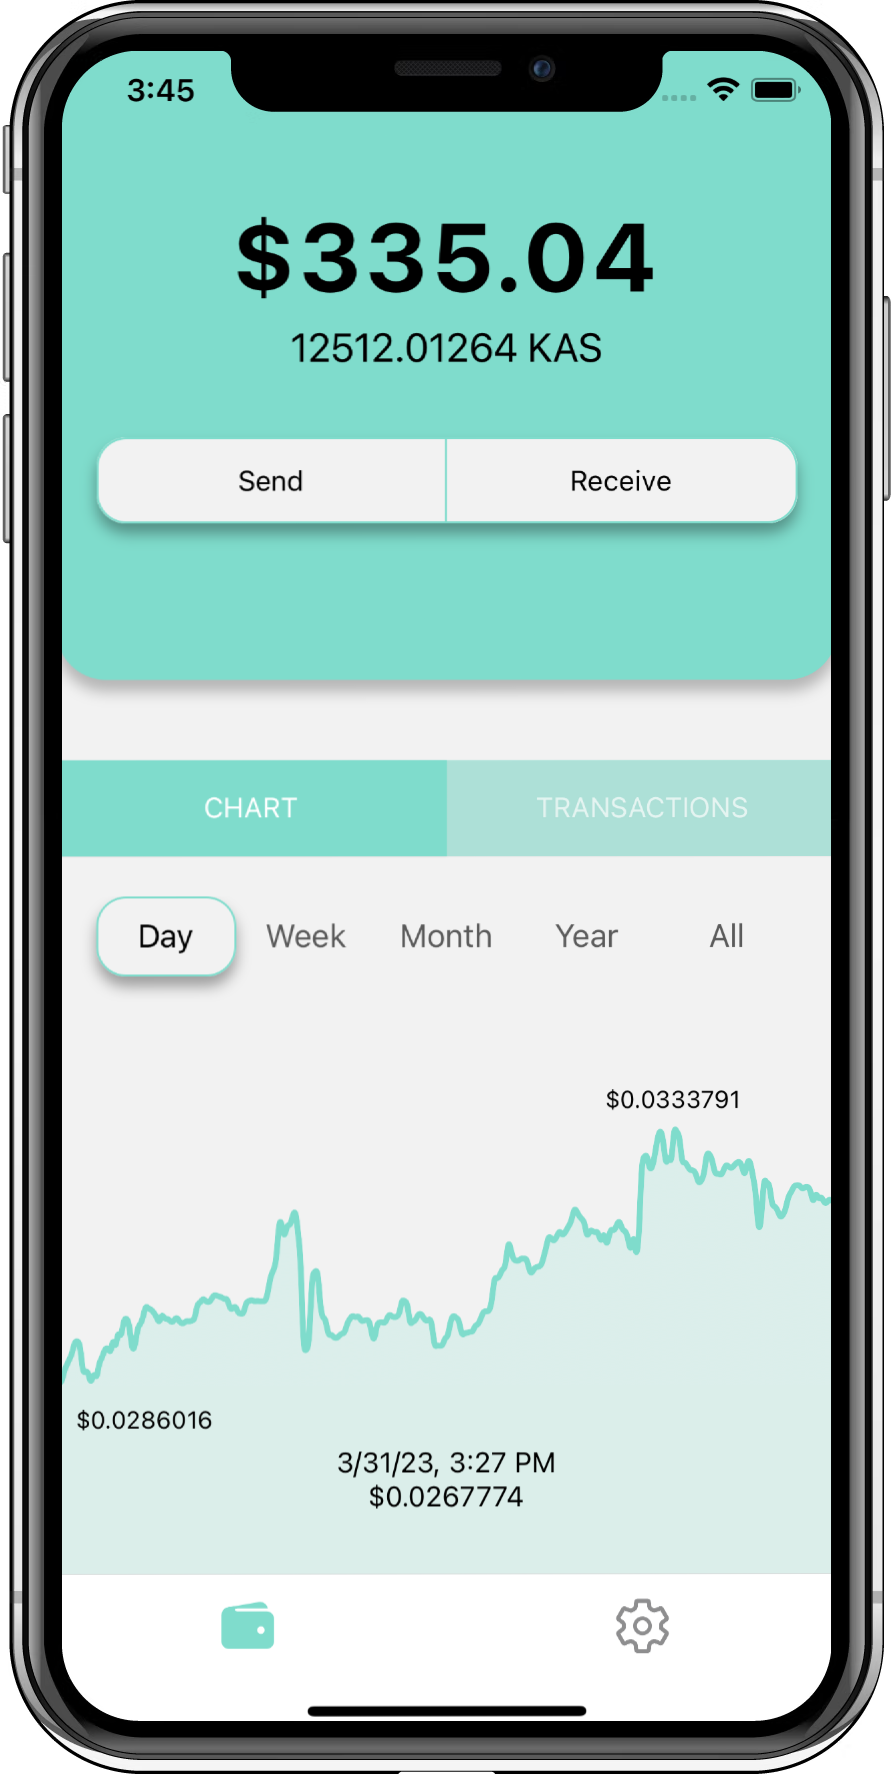
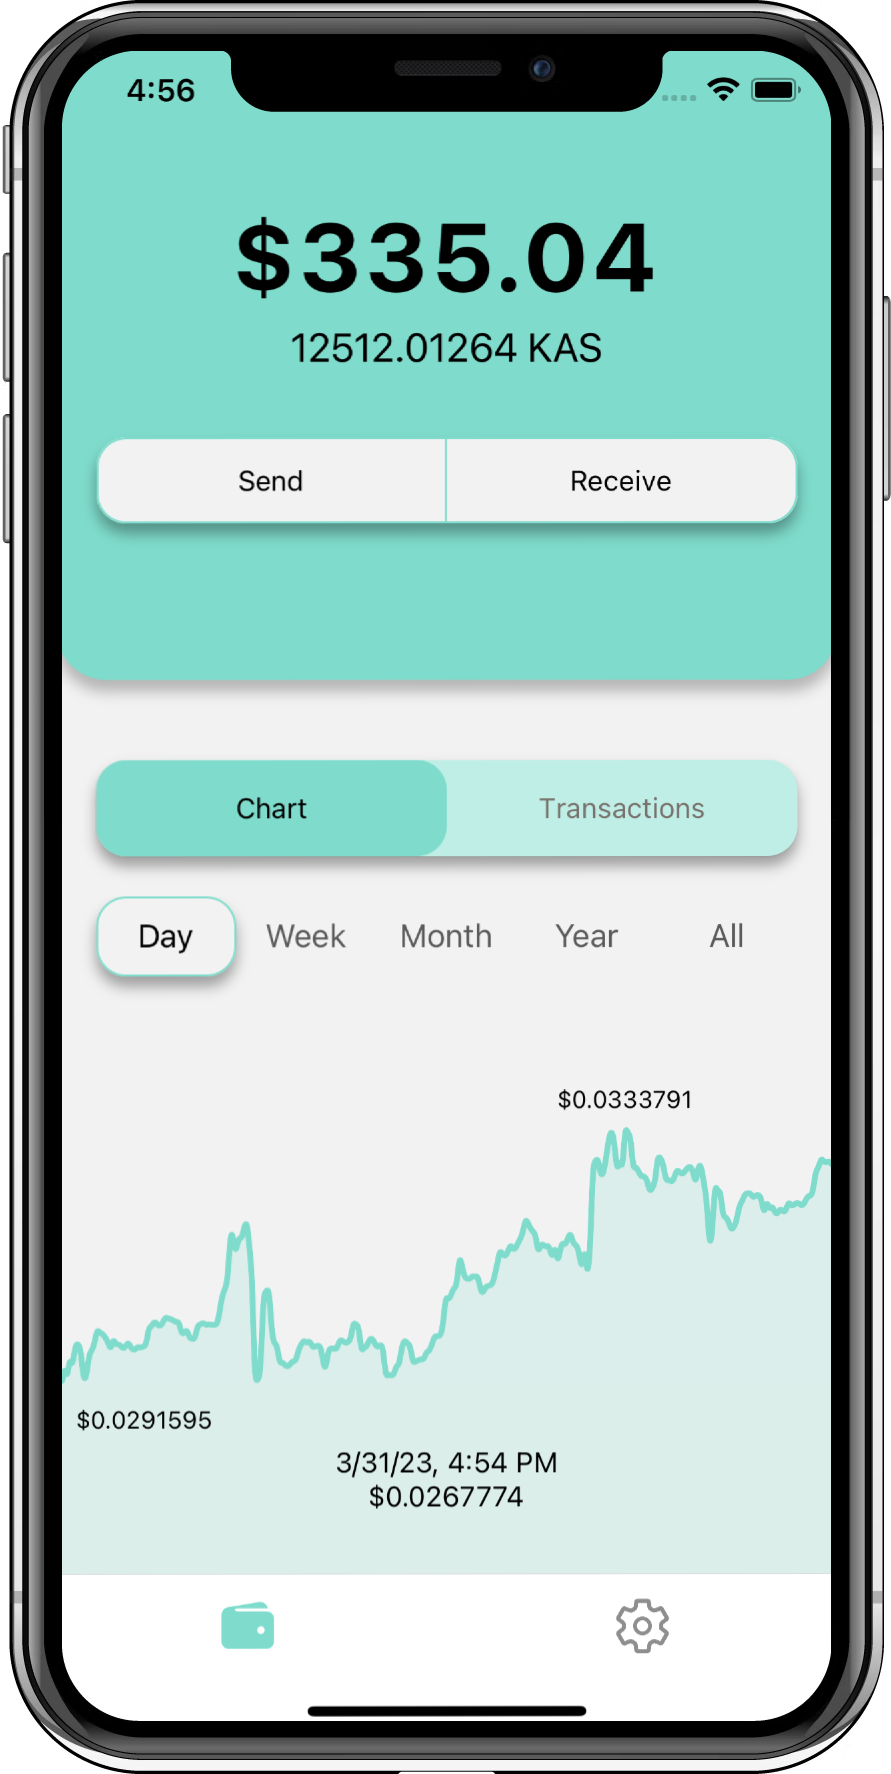
Update

diff --git a/screens/WalletsTab/index.tsx b/screens/WalletsTab/index.tsx
@@ -7,6 +7,7 @@ import {
   TouchableOpacity,
   Dimensions,
   ListRenderItem,
+  useColorScheme,
 } from "react-native"
 // import { Tabs } from "react-native-collapsible-tab-view"
 import { TabView, SceneMap, TabBar } from "react-native-tab-view"
@@ -65,8 +66,9 @@ const WalletsTab = (): JSX.Element => {
     { key: "transactions", title: "Transactions" },
   ])
 
-  const { colors } = useTheme()
-
+  const textColor = useColorScheme() === "dark" ? "#fff" : "#000"
+  const textColorOpposite = useColorScheme() === "dark" ? "#000" : "#fff"
+  const theme = useTheme()
   return (
     <ScrollView
       contentContainerStyle={[styles.container, { height: "100%", gap: 20 }]}
@@ -104,19 +106,37 @@ const WalletsTab = (): JSX.Element => {
         renderTabBar={(props) => {
           return (
             <View
-              style={{ alignItems: "center", borderRadius: 15, margin: 20 }}
+              style={[
+                styles.shadow,
+                {
+                  alignItems: "center",
+                  borderRadius: 15,
+                  margin: 20,
+                  shadowColor: textColor,
+                },
+              ]}
             >
               <TabBar
                 {...props}
                 indicatorStyle={{
                   height: "100%",
                   backgroundColor: pickedColor,
-                  // borderRadius: 15,
+                  borderRadius: 15,
                 }}
+                renderLabel={({ route, focused, color }) => (
+                  <Text
+                    style={{
+                      color: focused ? "#000" : theme.colors.light["500"],
+                    }}
+                  >
+                    {route.title}
+                  </Text>
+                )}
                 style={{
-                  backgroundColor: opacity(pickedColor, 0.55),
-                  width: Dimensions.get("window").width,
-                  // borderRadius: 15,
+                  backgroundColor: theme.colors.primary["200"],
+                  width: Dimensions.get("window").width - 40,
+                  borderRadius: 15,
+                  shadowColor: textColor,
                 }}
               />
             </View>
@@ -166,5 +186,14 @@ const styles = StyleSheet.create({
   header: {
     width: "100%",
     backgroundColor: "#2196f3",
+  },
+  shadow: {
+    shadowOffset: {
+      width: 0,
+      height: 5,
+    },
+    shadowOpacity: 0.35,
+    shadowRadius: 3.5,
+    elevation: 5,
   },
 })
